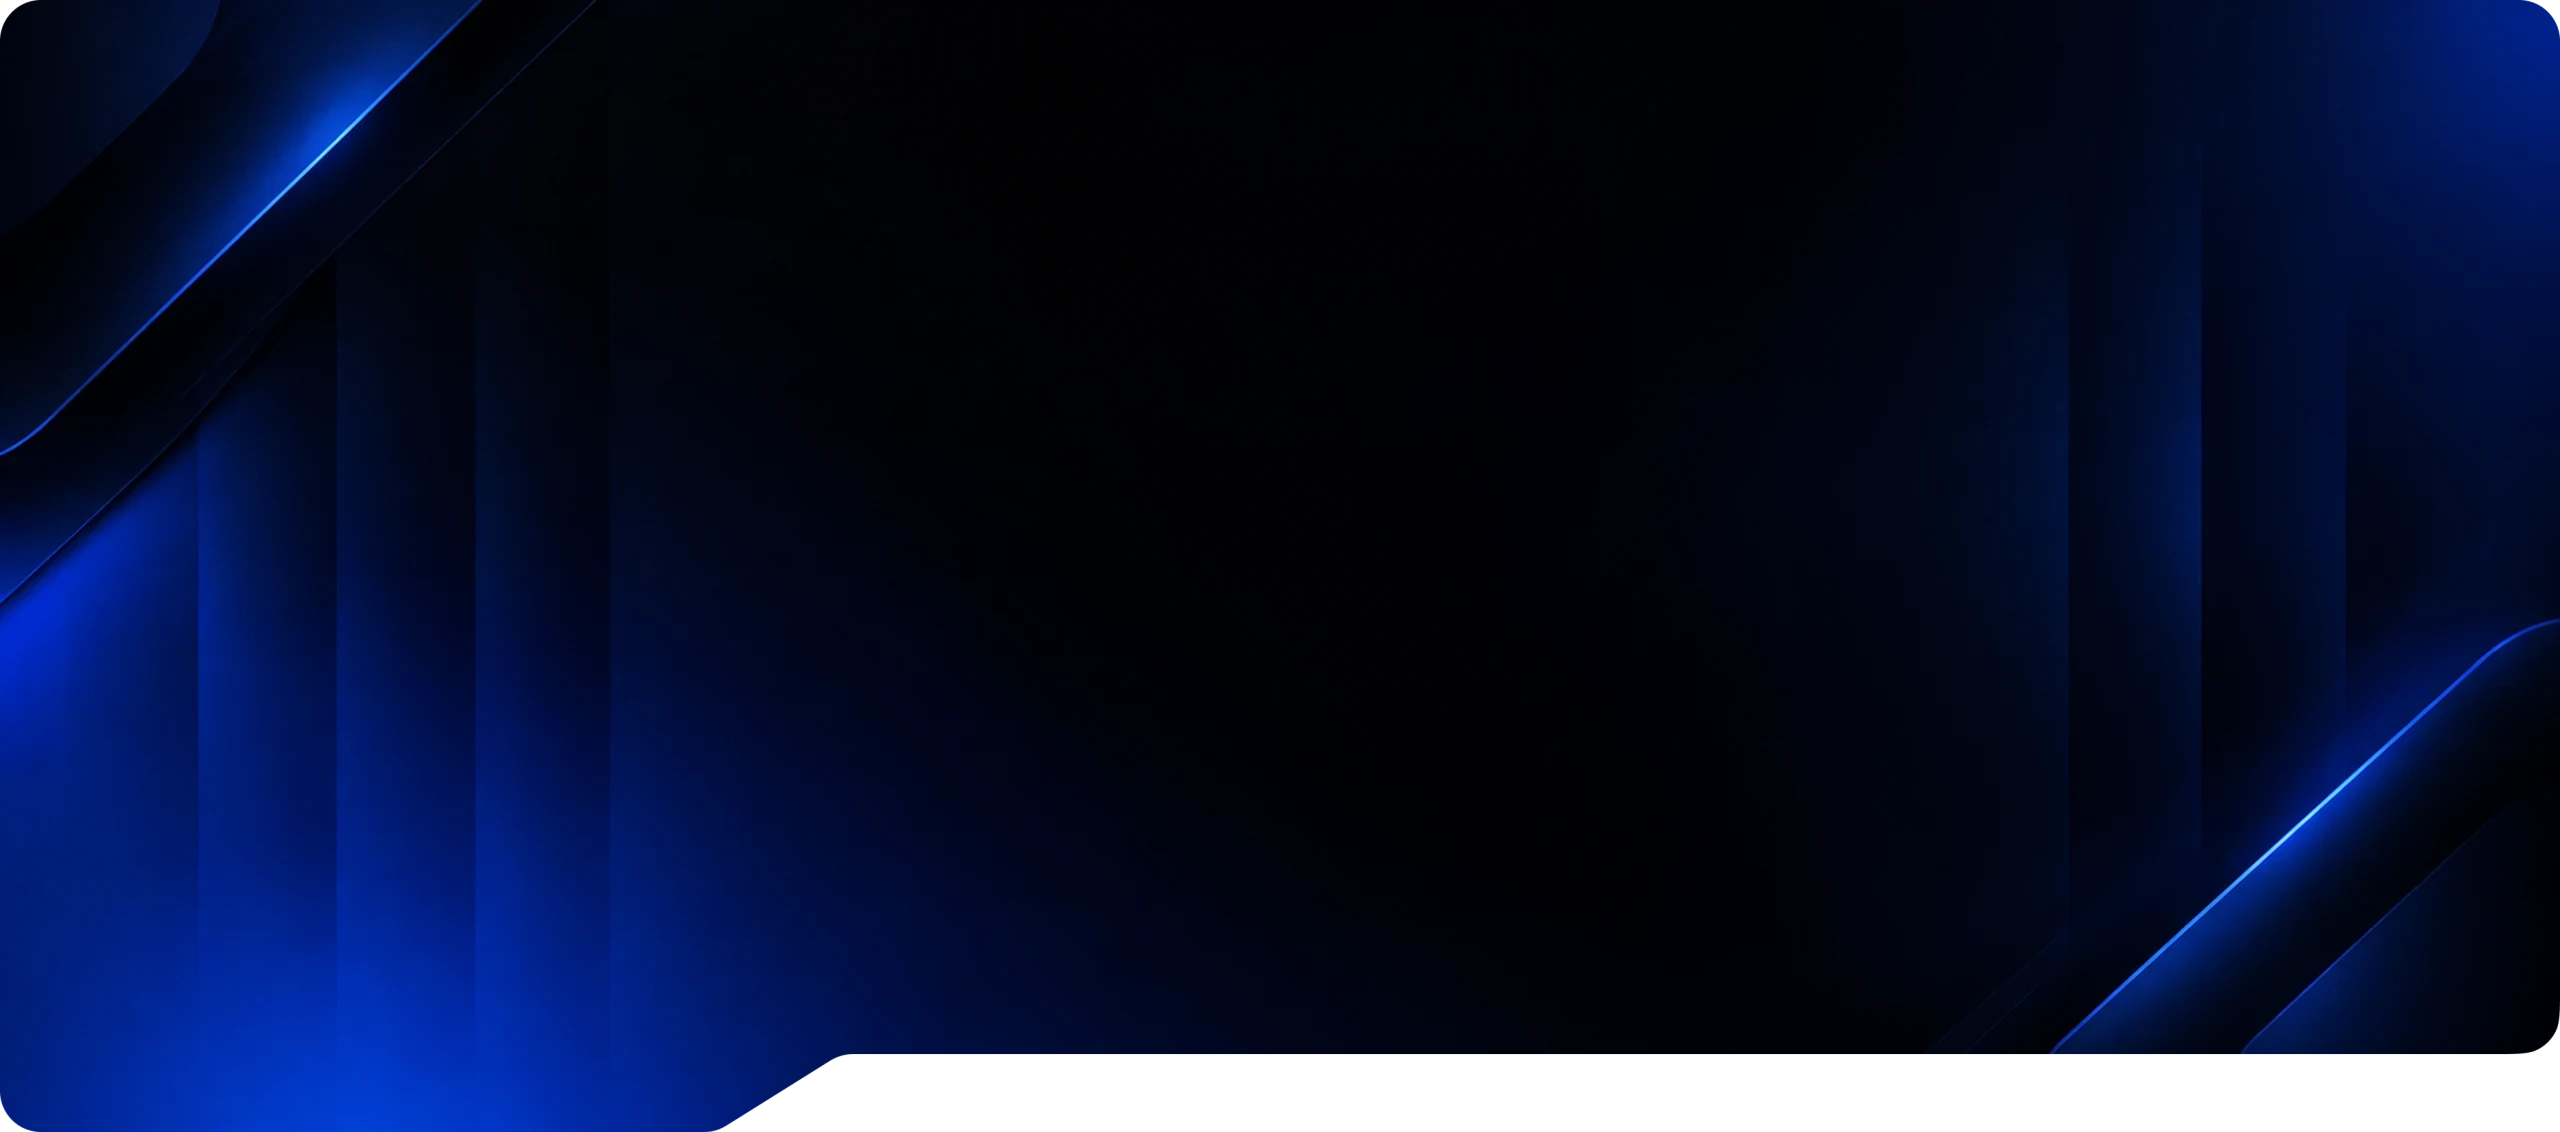
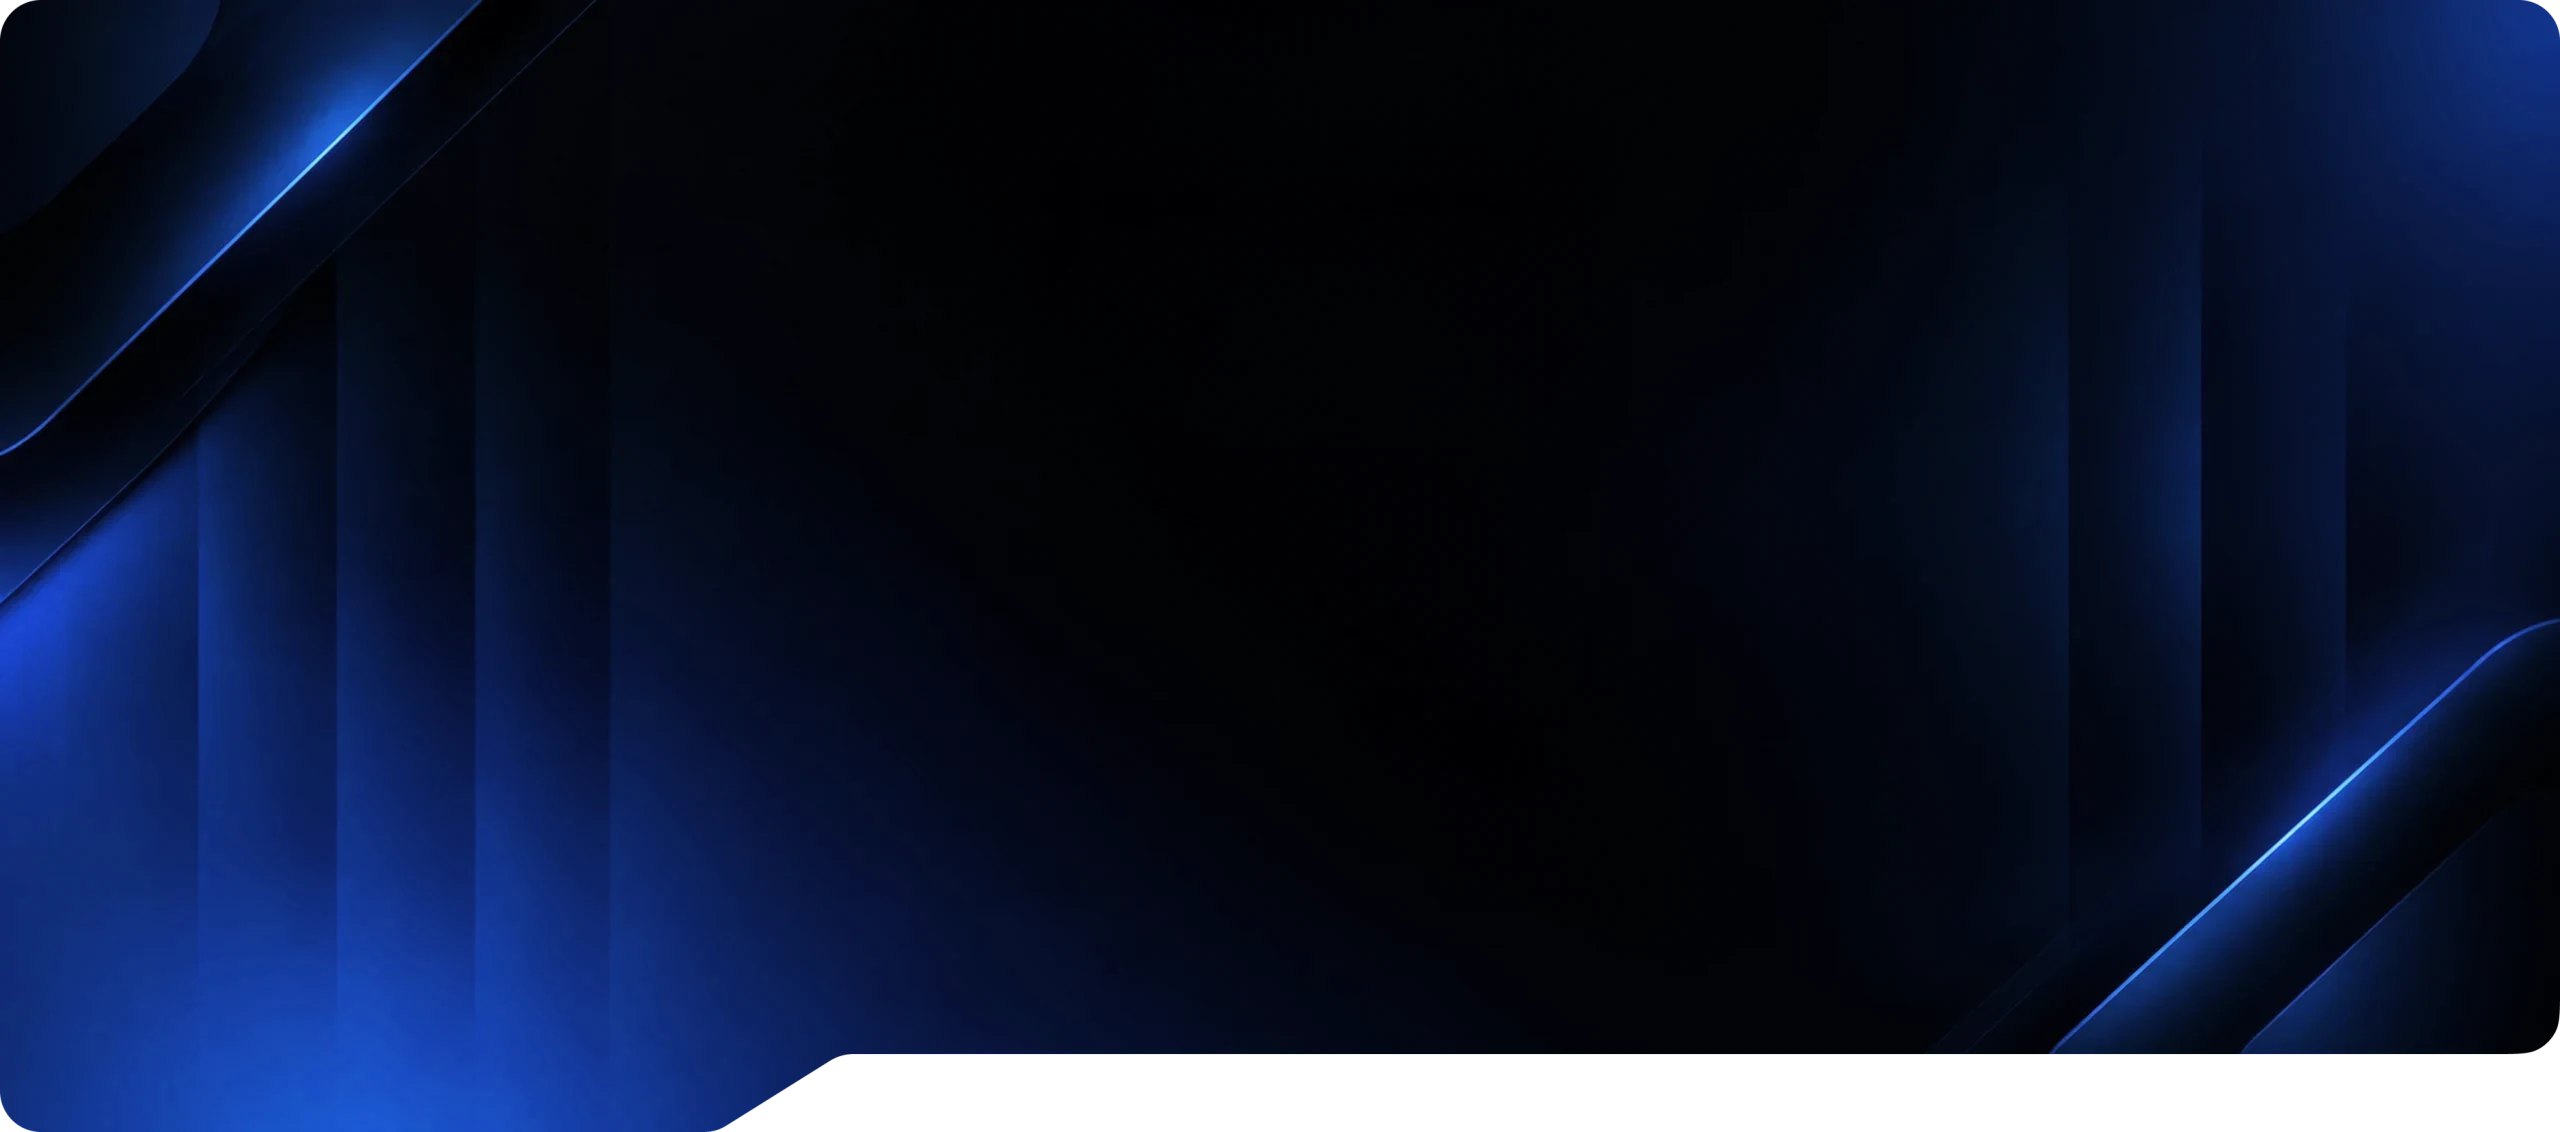
Hero no celular, azuis na cor do botao e "Entrar" adaptativo
Tres coisas na mesma area.

O azul da arte estava a 2 graus de matiz do botao "Comecar agora"
(#1D4ED8), mas muito mais saturado: 0,99 contra 0,87. Girada a matiz e
reduzida a saturacao na mesma proporcao, o azul mais vivo da imagem saiu
de #0128D1 para #1944D2 -- a mesma familia do botao. O gradiente e o
brilho da arte ficaram intactos, porque so matiz e saturacao mudaram.

No celular a hero estava quase preta. Ate 1024px ela usa
background-size: cover, e como a arte e deitada e a caixa e em pe, o
navegador cortava as laterais e mostrava so a faixa central -- a parte
escura, sem nenhuma das diagonais. Medindo a densidade de azul por faixa
vertical da arte, a faixa da esquerda tem 11,8x mais azul que a central;
na tela renderizada isso vira 7x no celular e 2,3x a 1024px. O corte
passa a comecar pela esquerda.

O botao "Entrar" agora troca de cor conforme o fundo. O CSS dos dois
estados ja existia no HTML desde o redesenho
(.fundo-claro .btn-glass-header), com um comentario pedindo que alguem
aplicasse a classe -- ninguem aplicava. Agora o logo-adaptativa.js
decide pelo mesmo teste que ja usava para a logo, no retangulo do botao.
Varrido em cinco paginas, 15 posicoes de rolagem: nenhum descompasso.

De quebra, a primeira avaliacao caia antes de o layout assentar: no
celular a logo abria escura sobre a hero escura e so acertava quando a
pessoa rolava. Passa a reavaliar apos as fontes carregarem, em tres
tempos curtos e a cada mudanca de tamanho.

Changed region(s): [[0.0625, 0.8657, 0.2188, 1.0], [0.0, 0.4947, 0.0312, 0.6184], [0.125, 0.0928, 0.1562, 0.1237]]

diff --git a/logo-adaptativa.js b/logo-adaptativa.js
@@ -7,7 +7,13 @@
   "use strict";
 
   var logos = document.querySelectorAll(".minha-logo img");
-  if (!logos.length) return;
+  /* O botao "Entrar" e de vidro: por cima de secao escura ele e branco, por
+     cima de secao clara precisa virar escuro, senao some. O CSS dos dois
+     estados ja existe no HTML (.fundo-claro .btn-glass-header) desde o
+     redesenho, esperando alguem aplicar a classe. E o mesmo teste da logo, no
+     retangulo do botao. */
+  var botoes = document.querySelectorAll(".btn-glass-header");
+  if (!logos.length && !botoes.length) return;
 
   /* Zonas escuras da pagina.
      modo "imagem": a secao pinta a imagem com background-size:contain, entao a
@@ -220,6 +226,16 @@
       var alvo = urlDe(img, maioriaEscura(r) ? "LOGO.svg" : "LOGO2.svg");
       if (img.src !== alvo) img.src = alvo;
     }
+    for (var j = 0; j < botoes.length; j++) {
+      var bt = botoes[j], rb = bt.getBoundingClientRect();
+      if (!rb.width || !rb.height) continue;           // variante oculta
+      /* a classe vai no pai porque o CSS do redesenho espera um ancestral */
+      var pai = bt.parentElement || bt;
+      var claro = !maioriaEscura(rb);
+      if (pai.classList.contains("fundo-claro") !== claro) {
+        pai.classList.toggle("fundo-claro", claro);
+      }
+    }
   }
 
   var agendado = false;
@@ -234,6 +250,20 @@
   addEventListener("scroll", agendar, { passive: true });
   addEventListener("resize", recalcular);
   addEventListener("load", recalcular);
+
+  /* A primeira avaliacao caia antes de o layout assentar: no celular a logo
+     abria escura sobre a hero escura e so acertava quando a pessoa rolava a
+     pagina. Fontes, imagens e as classes responsivas do Elementor mudam as
+     medidas depois do DOMContentLoaded, entao reavaliamos algumas vezes. */
+  [60, 250, 800].forEach(function (ms) { setTimeout(recalcular, ms); });
+  if (window.ResizeObserver) {
+    var obs = new ResizeObserver(recalcular);
+    obs.observe(document.documentElement);
+  }
+  if (document.fonts && document.fonts.ready) {
+    document.fonts.ready.then(recalcular);
+  }
+
   if (document.readyState !== "loading") agendar();
   else addEventListener("DOMContentLoaded", agendar);
 })();

diff --git a/avc-ajustes.css b/avc-ajustes.css
@@ -317,3 +317,23 @@ table table{font-size:.8em}table table td,table table th{padding:7px;line-height
 	--row-gap: 18px !important;
 	--column-gap: 18px !important;
 }
+
+/* Hero no celular e no tablet: enquadrar onde a arte tem cor
+   ----------------------------------------------------------------------
+   Ate 1024px a hero usa `background-size: cover`. A arte e deitada (2560x1132)
+   e a caixa e em pe (390x844 num celular), entao o navegador corta as laterais
+   e mostra so a faixa central — justamente a parte escura, sem nenhuma das
+   diagonais azuis. O resultado era uma hero quase preta no telefone.
+
+   Medindo a densidade de azul por faixa vertical da arte, a faixa da esquerda
+   tem 11,8x mais azul que a central; na tela renderizada a diferenca fica em
+   7x no celular e 2,3x a 1024px. Entao o corte passa a comecar pela esquerda.
+
+   O seletor repete o do Elementor porque a regra original usa tres classes e
+   `!important`: qualquer coisa menor perde o desempate. */
+@media (max-width: 1024px) {
+	.elementor-5644 .elementor-element.elementor-element-46deddd:not(.elementor-motion-effects-element-type-background),
+	.elementor-5644 .elementor-element.elementor-element-46deddd > .elementor-motion-effects-container > .elementor-motion-effects-layer {
+		background-position: left top !important;
+	}
+}
